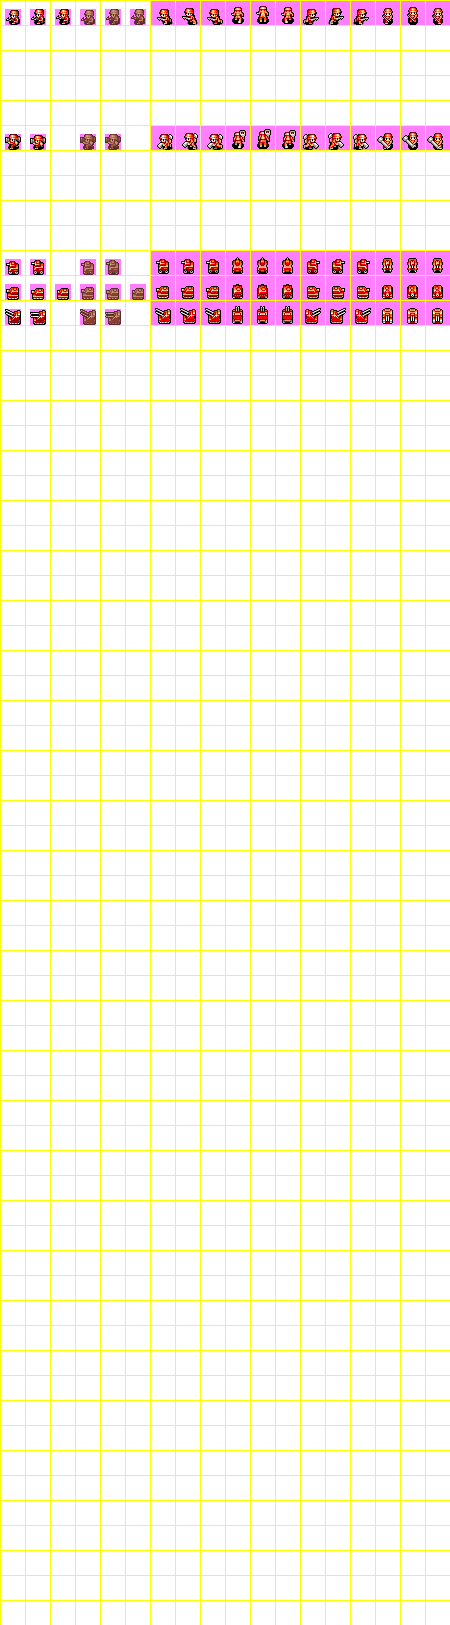
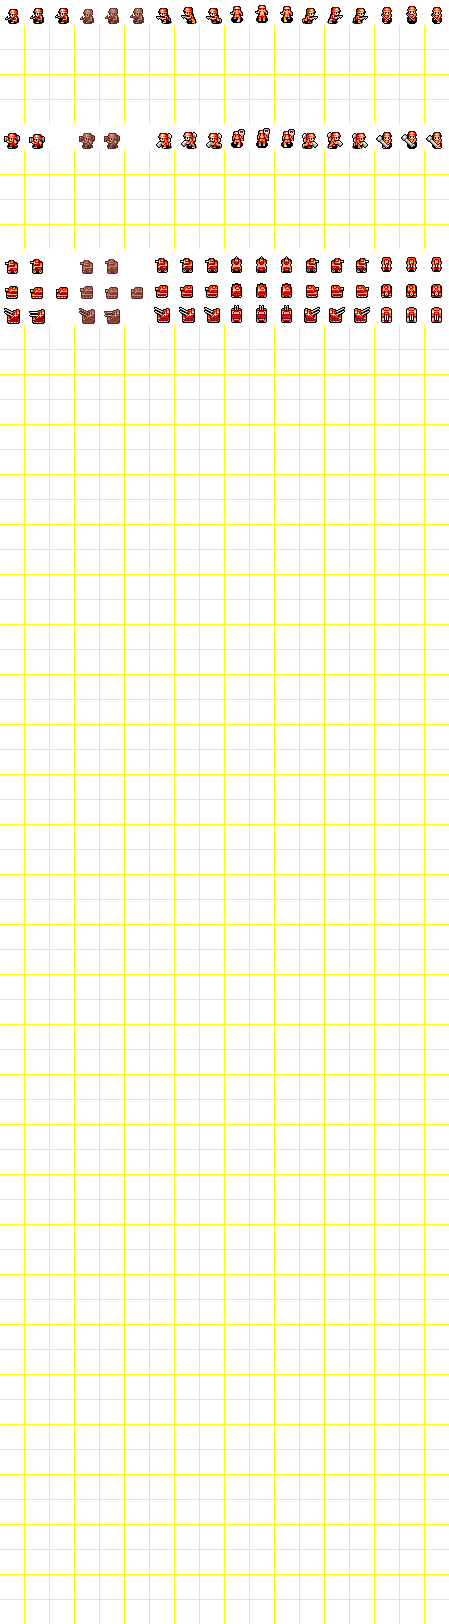
better terrain blend, unmasking units

Changed region(s): [[0.0, 0.0, 1.0, 1.0]]

diff --git a/src/components/Sprite.ts b/src/components/Sprite.ts
@@ -4,7 +4,7 @@ import { UISprite } from '@/types/ui.d';
 export default class Sprite extends Vue implements UISprite {
   private defaultSprite = { x: 0, y: 0 };
 
-  size = { w: 16, h: 16 };
+  size = { w: 18, h: 18 };
 
   get sprite(): { x: number, y: number } {
     return this.defaultSprite;

diff --git a/src/views/Game.vue b/src/views/Game.vue
@@ -76,7 +76,7 @@ export default class Game extends Vue {
 
   units: unitConfig = [
     {
-      type: 'Infantry', owner: 1, x: 1, y: 3,
+      type: 'Infantry', owner: 1, x: 0, y: 8,
     },
     {
       type: 'Mechanic', owner: 1, x: 7, y: 0,

diff --git a/src/components/units/AntiAir.vue b/src/components/units/AntiAir.vue
@@ -13,7 +13,7 @@ export default class AntiAir extends mixins(Unit, Animated) {
     { x: 1, y: 12 },
   ];
 
-  sequence = [20, 20];
+  sequence = [40, 40];
 
   size = { w: 24, h: 24 };
 

diff --git a/src/components/units/Mechanic.vue b/src/components/units/Mechanic.vue
@@ -13,7 +13,7 @@ export default class Mechanic extends mixins(Unit, Animated) {
     { x: 1, y: 5 },
   ];
 
-  sequence = [20, 20];
+  sequence = [40, 40];
 
   size = { w: 24, h: 24 };
 

diff --git a/src/components/units/Recon.vue b/src/components/units/Recon.vue
@@ -13,7 +13,7 @@ export default class Recon extends mixins(Unit, Animated) {
     { x: 1, y: 10 },
   ];
 
-  sequence = [20, 20];
+  sequence = [40, 40];
 
   size = { w: 24, h: 24 };
 

diff --git a/src/components/layers/Units.vue b/src/components/layers/Units.vue
@@ -45,5 +45,6 @@ export default class Units extends Layer {
 .aw-unit {
   width: 24px;
   height: 24px;
+  transform: translate(-4px, -10px);
 }
 </style>
